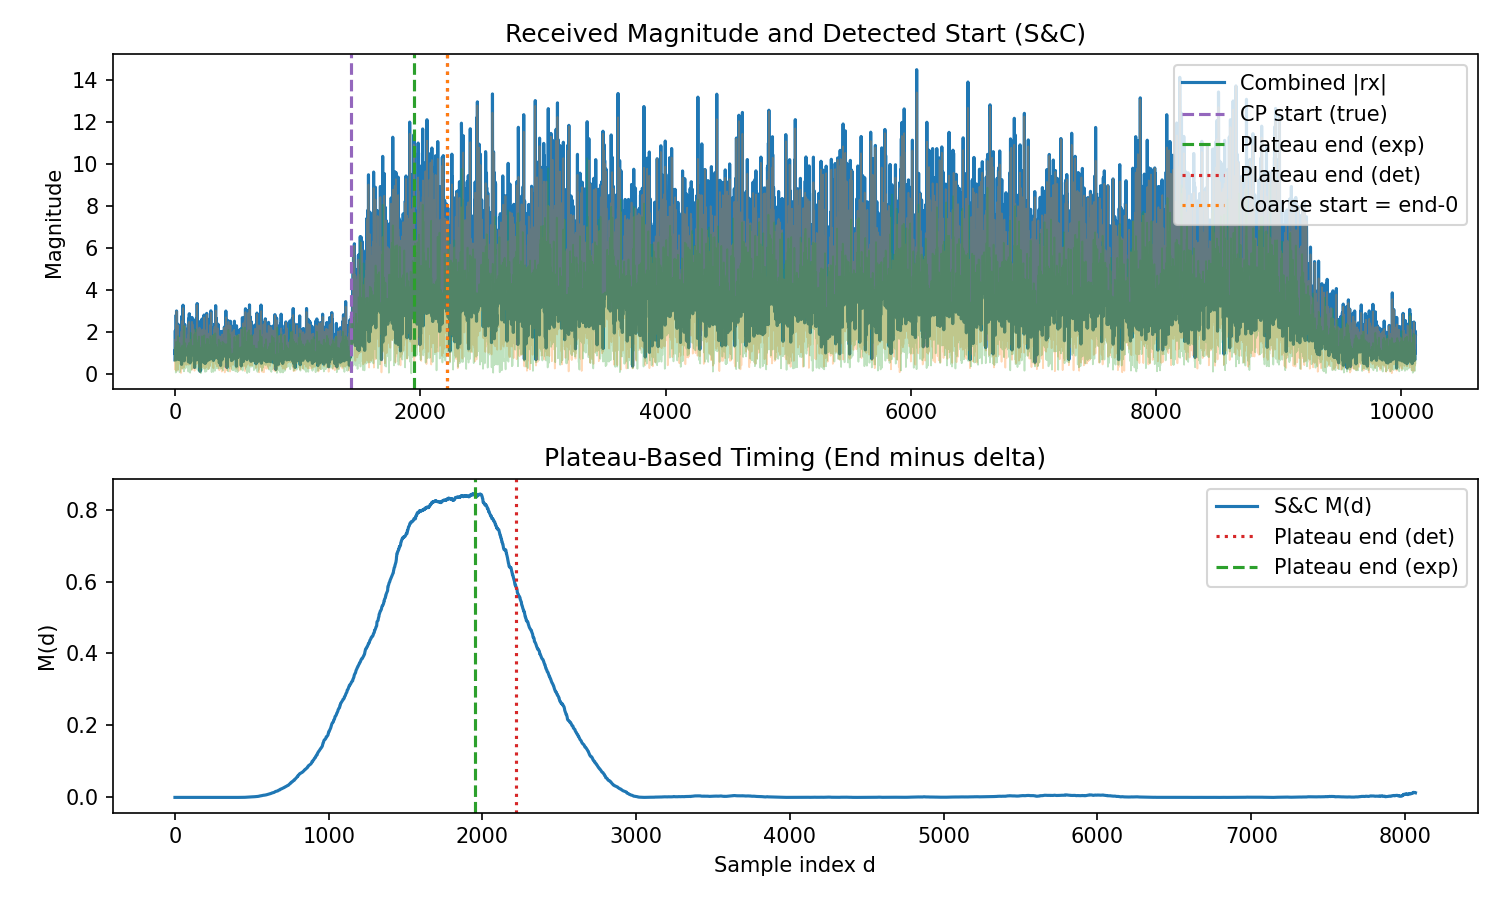
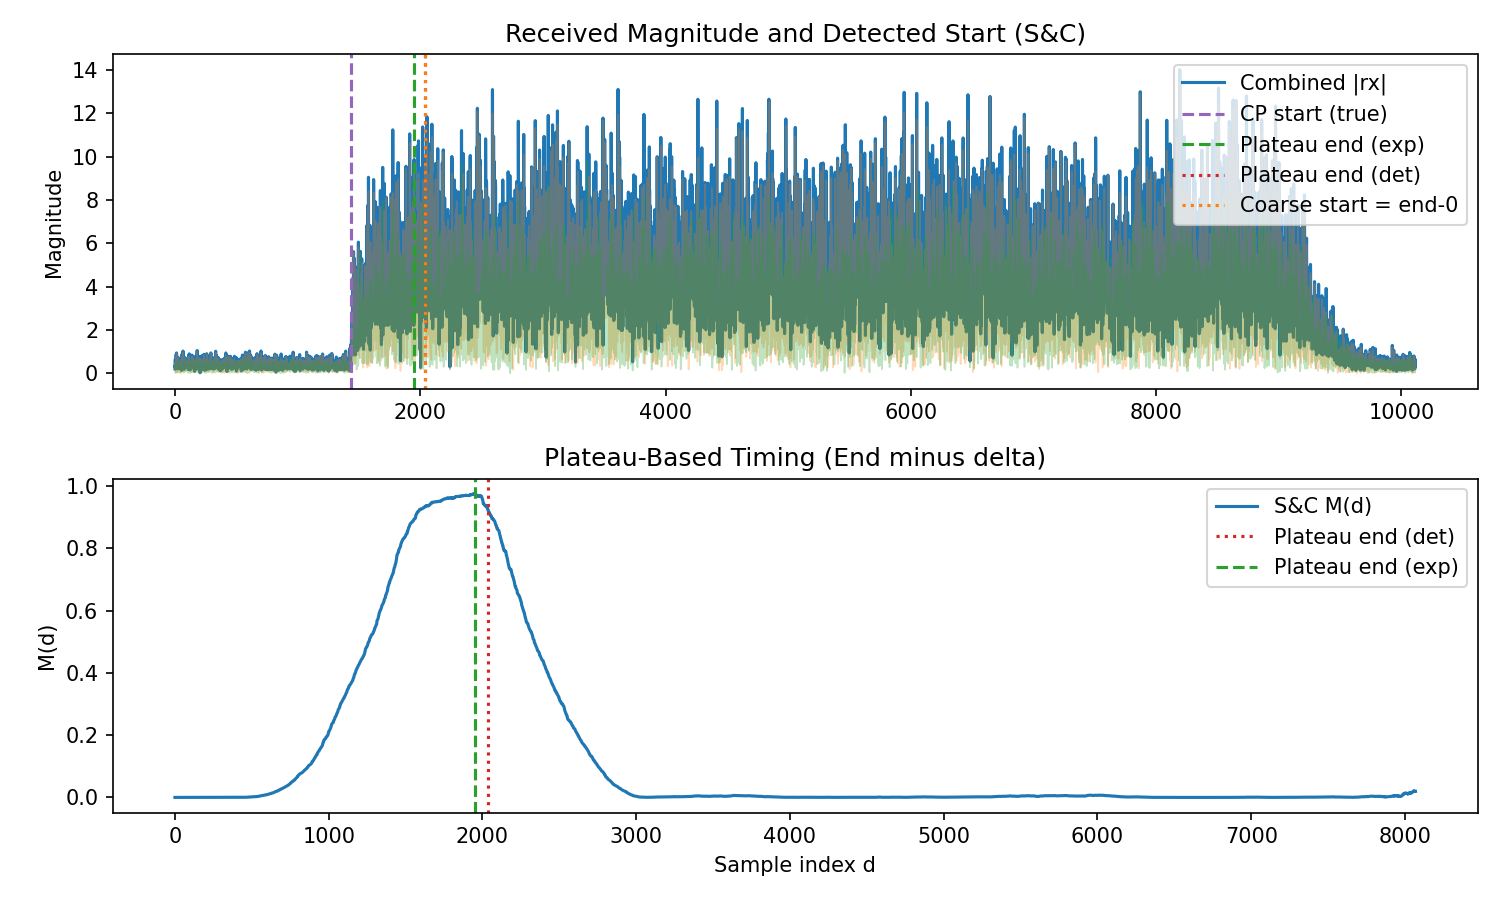
better

diff --git a/sc.py b/sc.py
@@ -24,6 +24,7 @@ from core import (
     plot_constellation,
     SAMPLE_RATE_HZ,
     apply_cfo,
+    estimate_timing_offset_from_phase_slope,
 )
 
 
@@ -80,17 +81,58 @@ def sc_streaming_metric(rx: np.ndarray) -> tuple[np.ndarray, np.ndarray, np.ndar
 def find_plateau_end_from_metric(
     M: np.ndarray, cp_len: int, lookahead: int | None = None, smooth_win: int = 8
 ) -> int:
-    """Find plateau end (N start) using a look-ahead drop on smoothed M.
+    """Estimate the end of the first S&C plateau (≈ CP end / N start).
 
-    Computes drop(d) = Ms[d] - Ms[d+L] over a local search window around the
-    plateau center, where L is a small lookahead (default cp_len/4). The end
-    index is approximated as d + L/2 at the maximum drop.
+    Strategy:
+    1) Smooth M(d) and pick the earliest contiguous run above a relative
+       threshold of the global maximum. The plateau end is the right edge of
+       that earliest sufficiently long run (length ≥ cp_len/2).
+    2) If that fails (e.g., no long-enough run), fall back to a slope-based
+       method that looks for the largest drop over a small lookahead window
+       around the strongest plateau and returns the drop center.
     """
     if M.size == 0:
         return 0
+
+    # --- Common prep ---
     L = (cp_len // 4) if lookahead is None else int(max(1, lookahead))
     w = max(1, smooth_win)
     Ms = np.convolve(M, np.ones(w, dtype=float) / w, mode="same")
+
+    # --- Very early boundary: first small drop after the local maximum ---
+    # Anchor at the strongest plateau maximum, then move forward and pick the
+    # first index that falls below a high fraction of that max (default 95%).
+    # This tends to align with the CP end rather than the later gradual tail.
+    center = int(np.argmax(Ms))
+    post_hi = min(Ms.size, center + cp_len)
+    if post_hi > center + 1:
+        frac = 0.95
+        thr_local = frac * float(Ms[center])
+        post = Ms[center:post_hi]
+        below = np.flatnonzero(post <= thr_local)
+        if below.size > 0:
+            return int(center + below[0])
+
+    # --- Primary: earliest-long-run above threshold ---
+    min_run = max(8, cp_len // 2)
+    peak = float(np.max(Ms))
+    if peak > 0:
+        # Use a conservative relative threshold to be robust to CFO/noise.
+        thr = 0.6 * peak
+        hi_mask = Ms >= thr
+        # Find contiguous runs in hi_mask
+        # Convert to indices of True and segment them.
+        idx = np.flatnonzero(hi_mask)
+        if idx.size > 0:
+            # Split where gaps > 1 sample
+            splits = np.where(np.diff(idx) > 1)[0] + 1
+            segments = np.split(idx, splits)
+            # Pick earliest segment with sufficient length
+            for seg in segments:
+                if seg.size >= min_run:
+                    return int(seg[-1])  # right edge of earliest valid plateau
+
+    # --- Fallback: slope-based drop around strongest plateau ---
     center = int(np.argmax(Ms))
     lo = max(0, center - cp_len)
     hi = min(Ms.size - L - 1, center + cp_len)
@@ -105,7 +147,7 @@ def find_plateau_end_from_metric(
 
 
 # Detector and channel parameters (script-local)
-SNR_DB = 10.0
+SNR_DB = 20.0
 CFO_HZ = 1000.0
 SC_DELTA = 0  # step back from plateau end to sit inside CP (8–16 suggested)
 SMOOTH_WIN = 32  # samples for smoothing M(d) before slope detection
@@ -164,7 +206,12 @@ def run_simulation():
 
     # Detection metric (S&C)
     M, P_sum, R_sum = sc_streaming_metric(rx_samples)
-    plateau_end = find_plateau_end_from_metric(M, CYCLIC_PREFIX, lookahead=CYCLIC_PREFIX // 4, smooth_win=8)
+    plateau_end = find_plateau_end_from_metric(
+        M,
+        CYCLIC_PREFIX,
+        lookahead=CYCLIC_PREFIX // 4,
+        smooth_win=SMOOTH_WIN,
+    )
     coarse_start = max(plateau_end - SC_DELTA, 0)
 
     # Ground-truth alignment helpers
@@ -226,31 +273,30 @@ def run_simulation():
     plot_time_series(rx_samples, "Received Frame After Channel", RX_PLOT_PATH)
 
     # --- CFO estimation from pilot (CP correlation) ---
-    # plateau_end approximates the end of CP and start of N for the preamble
+    # Use ONLY coarse timing: plateau_end ≈ preamble N-start. No CP refinement.
     preamble_n_start_est = plateau_end
-    # Do not refine with correlation search; rely on plateau edge only
     pilot_cp_start = preamble_n_start_est + N_FFT
     data_cp_start = pilot_cp_start + pilot_symbol.size
-    from core import estimate_cfo_from_cp_peak_with_index
-    cfo_est_hz, pilot_cp_best = estimate_cfo_from_cp_peak_with_index(
+    cfo_est_hz = estimate_cfo_from_cp(
         rx_samples,
         pilot_cp_start,
         N_FFT,
         CYCLIC_PREFIX,
         SAMPLE_RATE_HZ,
-        span=CYCLIC_PREFIX // 2,
     )
     # Compensate CFO across entire stream
     rx_cfo_corr = apply_cfo(rx_samples, -cfo_est_hz, SAMPLE_RATE_HZ)
 
     # --- Channel LS estimate from pilot ---
     rx_eff = rx_cfo_corr if rx_cfo_corr.ndim == 1 else np.mean(rx_cfo_corr, axis=0)
-    pilot_td = rx_eff[pilot_cp_best + CYCLIC_PREFIX : pilot_cp_best + CYCLIC_PREFIX + N_FFT]
+    pilot_td = rx_eff[pilot_cp_start + CYCLIC_PREFIX : pilot_cp_start + CYCLIC_PREFIX + N_FFT]
     y_pilot_used = ofdm_fft_used(pilot_td)
     h_est = ls_channel_estimate(y_pilot_used, pilot_used)
+    # Estimate residual timing from linear phase slope of H(k)
+    slope_rad_per_bin, timing_offset_samples = estimate_timing_offset_from_phase_slope(h_est)
 
     # --- Equalize data symbol and compute EVM ---
-    data_cp_start = pilot_cp_best + CYCLIC_PREFIX + N_FFT
+    data_cp_start = pilot_cp_start + CYCLIC_PREFIX + N_FFT
     data_td = rx_eff[data_cp_start + CYCLIC_PREFIX : data_cp_start + CYCLIC_PREFIX + N_FFT]
     y_data_used = ofdm_fft_used(data_td)
     xhat = equalize(y_data_used, h_est)
@@ -279,6 +325,9 @@ def run_simulation():
         print(f"Saved channel CIR plot to {CIR_PLOT_PATH.resolve()}")
     print(f"Applied CFO: {CFO_HZ} Hz at Fs={SAMPLE_RATE_HZ} Hz")
     print(f"Estimated CFO from CP: {cfo_est_hz:.2f} Hz")
+    print(
+        f"Pilot LS phase slope: {slope_rad_per_bin:.6f} rad/bin -> timing ≈ {timing_offset_samples:.2f} samples",
+    )
     print(f"Post-EQ complex gain (mag, angle): {np.abs(gain):.3f}, {np.angle(gain):.3f} rad")
     print(f"EVM RMS: {100*evm_rms:.2f}%  ({evm_db:.2f} dB)")
 

diff --git a/core.py b/core.py
@@ -384,3 +384,35 @@ def plot_constellation(x: np.ndarray, ref: np.ndarray | None, path: Path, title:
     fig.tight_layout()
     fig.savefig(path, dpi=150)
     plt.close(fig)
+
+
+# -----------------------------------------------------
+# Timing offset from phase slope across subcarriers
+# -----------------------------------------------------
+def estimate_timing_offset_from_phase_slope(
+    h_used: np.ndarray,
+) -> tuple[float, float]:
+    """Estimate residual timing from linear phase slope of LS channel.
+
+    A time shift by Δ samples yields a linear phase across subcarriers:
+    angle ~ -2π k Δ / N_FFT. We fit a line to unwrapped phase vs. used
+    centered subcarrier index k (excluding DC). Returns:
+      - slope_rad_per_bin: fitted slope in radians per subcarrier index
+      - timing_offset_samples: Δ ≈ -slope * N_FFT / (2π)
+
+    Assumes `h_used` corresponds to subcarriers returned by
+    `centered_subcarrier_indices(NUM_ACTIVE_SUBCARRIERS)` in the same order
+    as `ofdm_fft_used`.
+    """
+    if h_used.size == 0:
+        return 0.0, 0.0
+    k = centered_subcarrier_indices(NUM_ACTIVE_SUBCARRIERS).astype(np.float64)
+    phi = np.unwrap(np.angle(h_used.astype(np.complex128)))
+    k_mean = float(np.mean(k))
+    phi_mean = float(np.mean(phi))
+    k_zero = k - k_mean
+    phi_zero = phi - phi_mean
+    denom = float(np.sum(k_zero * k_zero)) + 1e-12
+    slope = float(np.sum(k_zero * phi_zero) / denom)  # rad per subcarrier
+    delta_samples = -slope * N_FFT / (2.0 * np.pi)
+    return slope, float(delta_samples)

diff --git a/zc.py b/zc.py
@@ -23,6 +23,7 @@ from core import (
     plot_constellation,
     SAMPLE_RATE_HZ,
     apply_cfo,
+    estimate_timing_offset_from_phase_slope,
 )
 
 # ZC-specific parameters
@@ -46,7 +47,7 @@ def build_pss_symbol(include_cp: bool = True) -> np.ndarray:
 
 
 # Script-local parameters
-SNR_DB = 10.0
+SNR_DB = 20.0
 CFO_HZ = 1000.0
 
 PLOTS_DIR = Path("plots") / "zc"
@@ -187,6 +188,8 @@ def run_simulation():
     pilot_td = rx_eff[pilot_cp_start + CYCLIC_PREFIX : pilot_cp_start + CYCLIC_PREFIX + N_FFT]
     y_pilot_used = ofdm_fft_used(pilot_td)
     h_est = ls_channel_estimate(y_pilot_used, pilot_used)
+    # Estimate residual timing from linear phase slope of H(k)
+    slope_rad_per_bin, timing_offset_samples = estimate_timing_offset_from_phase_slope(h_est)
 
     # --- Equalize data symbol and compute EVM ---
     data_td = rx_eff[data_cp_start + CYCLIC_PREFIX : data_cp_start + CYCLIC_PREFIX + N_FFT]
@@ -222,6 +225,9 @@ def run_simulation():
         print(f"Saved channel CIR plot to {CIR_PLOT_PATH.resolve()}")
     print(f"Applied CFO: {CFO_HZ} Hz at Fs={SAMPLE_RATE_HZ} Hz")
     print(f"Estimated CFO from CP: {cfo_est_hz:.2f} Hz")
+    print(
+        f"Pilot LS phase slope: {slope_rad_per_bin:.6f} rad/bin -> timing ≈ {timing_offset_samples:.2f} samples",
+    )
     print(f"Post-EQ complex gain (mag, angle): {np.abs(gain):.3f}, {np.angle(gain):.3f} rad")
     print(f"EVM RMS: {100*evm_rms:.2f}%  ({evm_db:.2f} dB)")
 
